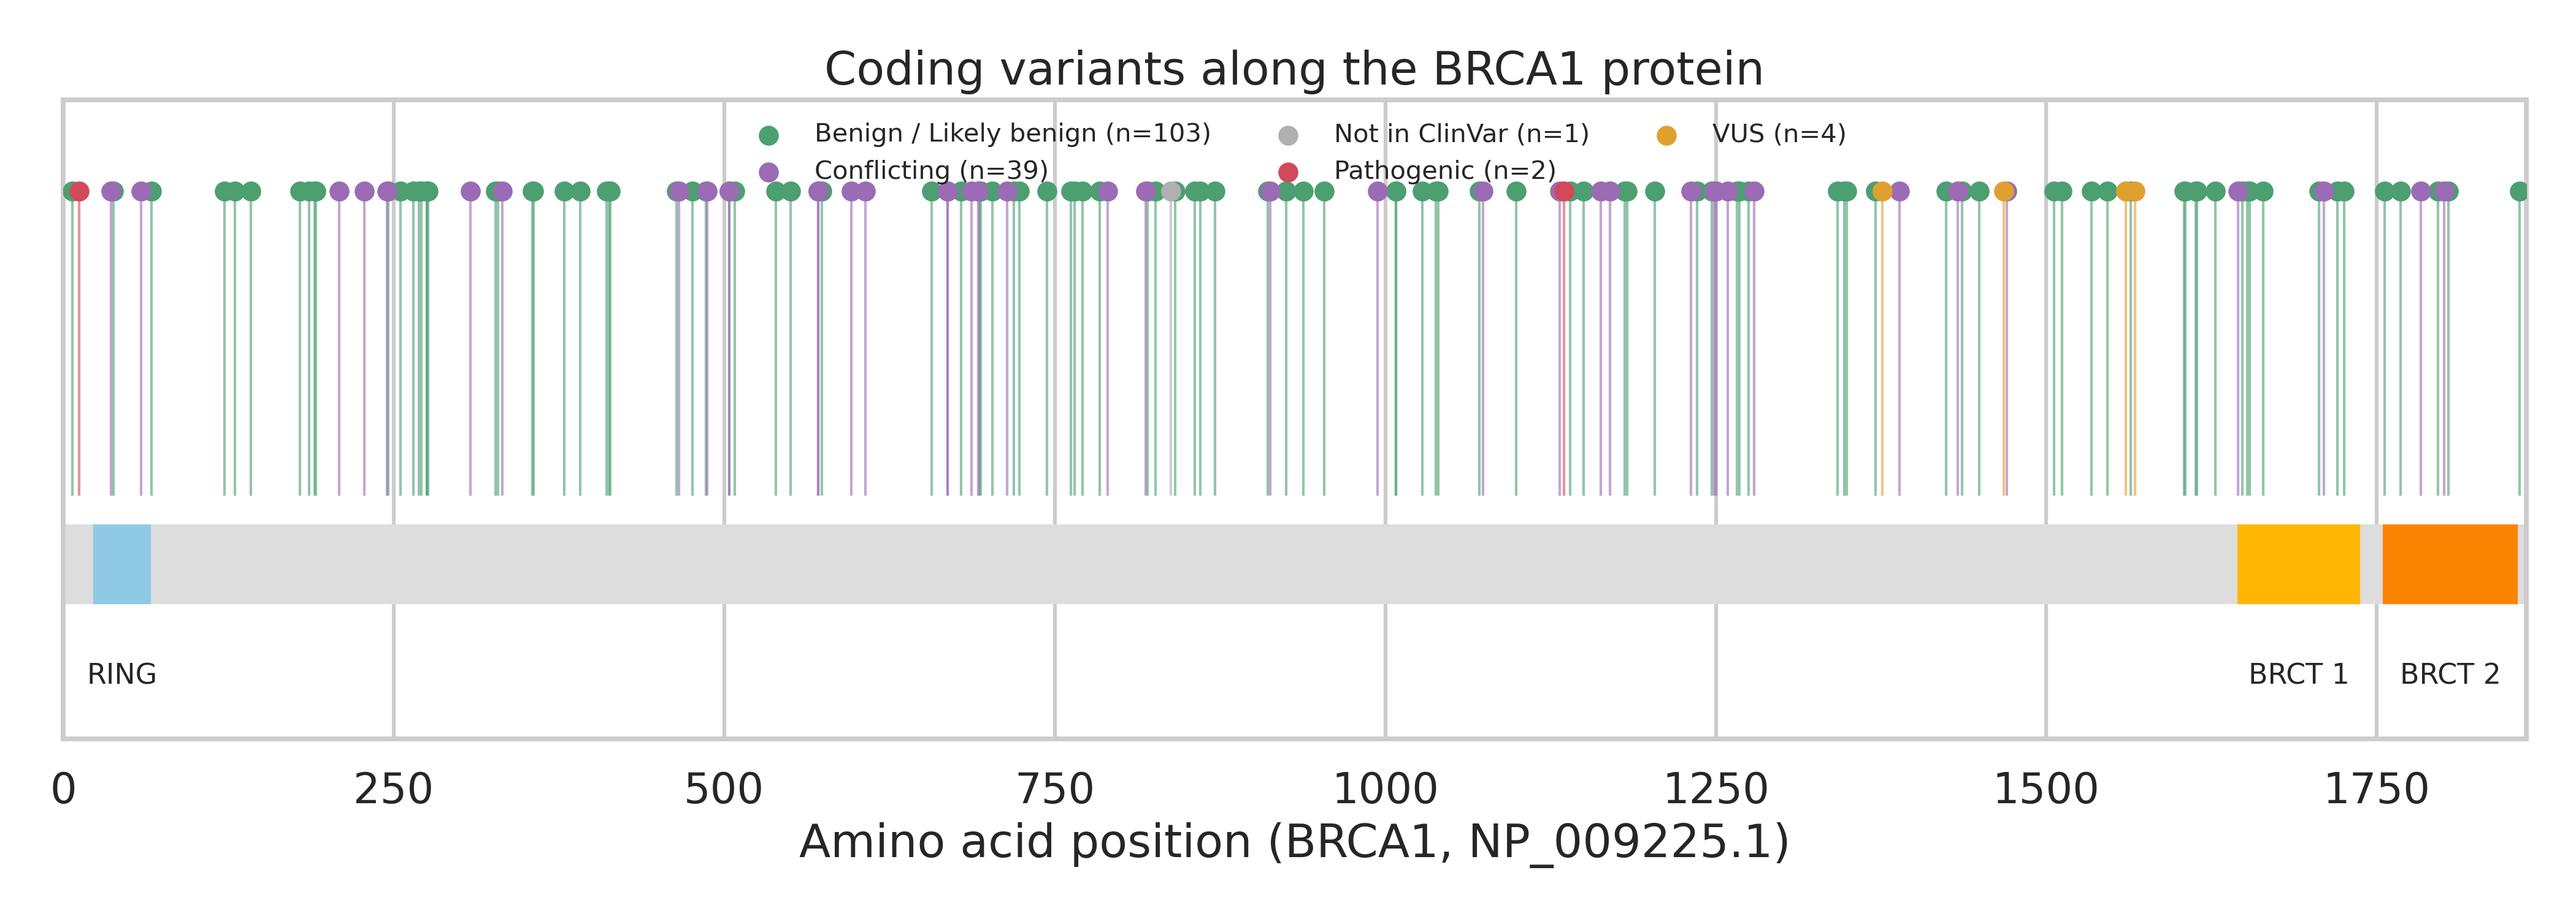
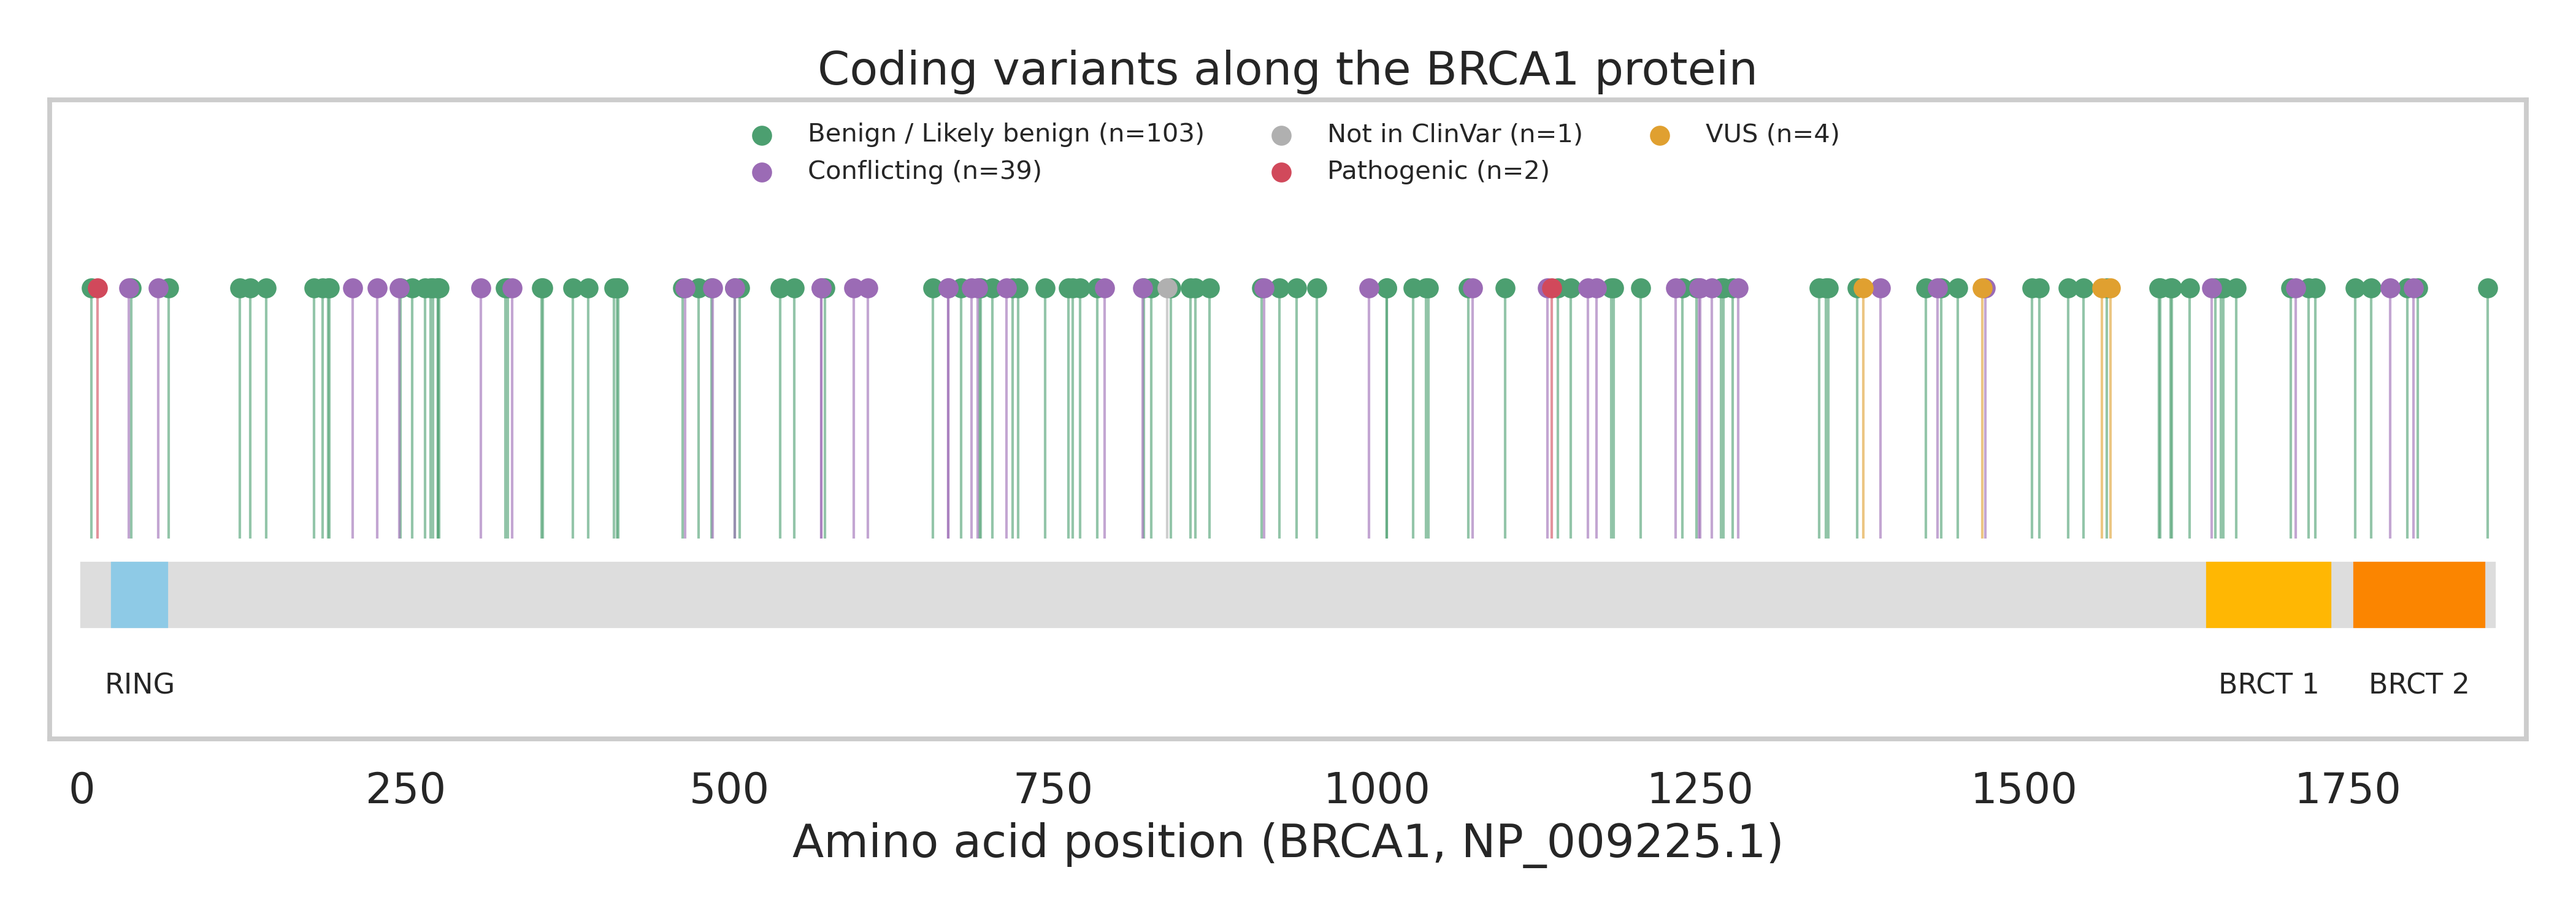
Tidy lollipop plot layout

diff --git a/scripts/07_clinvar_vs_population.py b/scripts/07_clinvar_vs_population.py
@@ -1,0 +1,62 @@
+import pandas as pd
+import matplotlib
+matplotlib.use("Agg")
+import matplotlib.pyplot as plt
+
+# --- ClinVar side: all BRCA1 records ---
+cv = pd.read_csv("results/clinvar_brca1.tsv", sep="\t", header=None,
+                 na_values=["."], keep_default_na=False,
+                 names=["pos", "ref", "alt", "sig", "mc", "gene"])
+cv = cv.replace("", pd.NA)
+cv = cv[cv.gene.fillna("").str.contains(r"(?:^|\|)BRCA1:")].copy()
+# First listed molecular consequence, e.g. "SO:0001583|missense_variant"
+cv["consequence"] = (cv.mc.fillna("").str.split(",").str[0]
+                     .str.split("|").str[-1])
+
+def sig_group(s):
+    s = "" if pd.isna(s) else s
+    if "onflicting" in s: return "ClinVar Conflicting"
+    if "athogenic" in s and "enign" not in s: return "ClinVar Pathogenic / Likely pathogenic"
+    if "ncertain" in s: return "ClinVar VUS"
+    if "enign" in s: return "ClinVar Benign / Likely benign"
+    return "Other"
+cv["group"] = cv.sig.apply(sig_group)
+
+def cat(c):
+    c = str(c)
+    if "frameshift" in c: return "Frameshift"
+    if c in ("nonsense", "stop_gained"): return "Nonsense"
+    if c in ("splice_donor_variant", "splice_acceptor_variant"): return "Canonical splice site"
+    if "missense" in c: return "Missense"
+    if "synonymous" in c: return "Synonymous"
+    if "inframe" in c: return "In-frame indel"
+    if "intron" in c: return "Intronic"
+    return "Other (UTR, non-coding, etc.)"
+cv["cat"] = cv.consequence.apply(cat)
+
+# --- Population side: observed 1000 Genomes variants only ---
+pop = pd.read_csv("results/brca1_master_table.csv")
+pop = pop[pop.observed_in_samples]
+pop["cat"] = pop.consequence_main.apply(cat)
+pop["group"] = "1000 Genomes (observed)"
+
+all_ = pd.concat([cv[["group", "cat"]], pop[["group", "cat"]]], ignore_index=True)
+all_ = all_[all_.group != "Other"]
+counts = pd.crosstab(all_.group, all_.cat)
+print(counts.to_string())
+print()
+print("BRCA1 ClinVar records in region:", len(cv))
+print(cv.group.value_counts())
+
+props = counts.div(counts.sum(axis=1), axis=0) * 100
+print()
+print(props.round(1).to_string())
+
+ax = props.plot(kind="barh", stacked=True, figsize=(13, 6), colormap="tab20")
+ax.set_xlabel("Share of variants (%)")
+ax.set_ylabel("")
+ax.set_title("Consequence mix: ClinVar classes vs. 1000 Genomes (BRCA1)")
+ax.legend(bbox_to_anchor=(1.01, 1), loc="upper left", fontsize=9)
+plt.tight_layout()
+plt.savefig("figures/fig5_clinvar_vs_population.png", dpi=300)
+counts.to_csv("results/consequence_by_group.csv")

diff --git a/scripts/09_notable_variants.py b/scripts/09_notable_variants.py
@@ -1,0 +1,29 @@
+import pandas as pd
+
+df = pd.read_csv("results/brca1_master_table.csv")
+df["af_calc"] = pd.to_numeric(df.ac_1000g, errors="coerce") / pd.to_numeric(df.an_1000g, errors="coerce")
+s = df.clinvar_sig.fillna("")
+
+notable = df[(df.IMPACT == "HIGH")
+             | s.str.contains("athogenic") & ~s.str.contains("onflicting")
+             | (df.observed_in_samples & s.str.contains("Uncertain"))].copy()
+
+cols = ["pos", "rsid", "HGVSc", "HGVSp", "consequence_main", "IMPACT",
+        "ac_1000g", "af_calc", "observed_in_samples",
+        "clinvar_sig", "clinvar_revstat", "SIFT", "PolyPhen"]
+notable = notable[cols].sort_values("pos")
+notable["HGVSc"] = notable.HGVSc.str.split(":").str[-1]
+notable["HGVSp"] = notable.HGVSp.str.split(":").str[-1]
+notable.to_csv("results/notable_variants.csv", index=False)
+
+pd.set_option("display.width", 250)
+pd.set_option("display.max_columns", 30)
+print(len(notable), "notable variants")
+print(notable.to_string(index=False))
+
+print()
+obs = df[df.observed_in_samples]
+print("Observed missense variants:", (obs.consequence_main == "missense_variant").sum())
+print("  of which ClinVar-classified:", ((obs.consequence_main == "missense_variant") & obs.clinvar_sig.notna()).sum())
+print("  of which VUS or conflicting:", ((obs.consequence_main == "missense_variant")
+      & obs.clinvar_sig.fillna("").str.contains("ncertain|onflicting")).sum())

diff --git a/scripts/06_figures.py b/scripts/06_figures.py
@@ -72,7 +72,7 @@ cod = cod.dropna(subset=["aa_pos"])
 
 L = 1863  # BRCA1 protein length (UniProt P38398)
 domains = [("RING", 24, 65, "#8ecae6"),
-           ("BRCT 1", 1646, 1736, "#ffb703"),
+           ("BRCT 1", 1642, 1736, "#ffb703"),
            ("BRCT 2", 1756, 1855, "#fb8500")]  # verify boundaries in UniProt P38398
 
 fig, ax = plt.subplots(figsize=(14, 5))
@@ -84,7 +84,7 @@ for g, sub_g in cod.groupby("cv_group"):
     ax.vlines(sub_g.aa_pos, 0, 1, color=cv_colors[g], alpha=0.6, linewidth=1)
     ax.scatter(sub_g.aa_pos, [1] * len(sub_g), color=cv_colors[g], s=40,
                label=f"{g} (n={len(sub_g)})", zorder=3)
-ax.set_xlim(0, L); ax.set_ylim(-0.8, 1.3)
+ax.set_xlim(-25, L + 25); ax.set_ylim(-0.8, 1.75); ax.grid(False)
 ax.set_yticks([]); ax.set_xlabel("Amino acid position (BRCA1, NP_009225.1)")
 ax.set_title("Coding variants along the BRCA1 protein")
 ax.legend(loc="upper center", ncol=3, fontsize=10, frameon=False)

diff --git a/scripts/08_flag_observed.py b/scripts/08_flag_observed.py
@@ -1,0 +1,16 @@
+import pandas as pd
+
+df = pd.read_csv("results/brca1_master_table.csv")
+df["ac_1000g"] = pd.to_numeric(df["ac_1000g"], errors="coerce")
+df["observed_in_samples"] = df["ac_1000g"] > 0
+df.to_csv("results/brca1_master_table.csv", index=False)
+
+print("BRCA1 analysis set:", len(df))
+print("Observed in >=1 sample (AC>0):", int(df.observed_in_samples.sum()))
+print("Listed but not observed (AC=0):", int((~df.observed_in_samples).sum()))
+print()
+print("Consequences of unobserved variants:")
+print(df[~df.observed_in_samples].consequence_main.value_counts())
+print()
+print("ClinVar classes of unobserved variants:")
+print(df[~df.observed_in_samples].clinvar_sig.value_counts(dropna=False))

diff --git a/scripts/03_check_dropped.py b/scripts/03_check_dropped.py
@@ -12,4 +12,4 @@ dropped["pos"] = dropped["Location"].str.split(":").str[1].str.split("-").str[0]
 
 print("Dropped variants:", len(dropped))
 print(dropped["pos"].describe())
-print(dropped["SYMBOL"].value_counts().head(8))
+print(dropped["SYMBOL"].value_counts(dropna=False).head(8))
